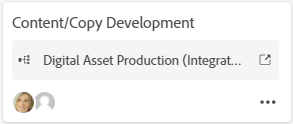
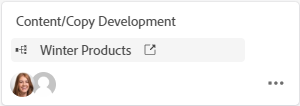
Status on cards

diff --git a/help/quicksilver/agile/get-started-with-boards/add-card-to-board.md b/help/quicksilver/agile/get-started-with-boards/add-card-to-board.md
@@ -9,11 +9,13 @@ exl-id: 9bc1f92a-85b0-44fd-b5de-09a69af6def5
 ---
 # Add an ad hoc card to a board
 
+{{highlighted-preview}}
+
 You can quickly add a card to a board and assign it to a member on the board. The card can represent a task, issue, person, group, or any type of item that you want to include on the board.
 
 >[!NOTE]
 >
->The ad hoc cards on a board are not connected to work items in Adobe Workfront. For details about connected cards, see [Connected cards on boards](/help/quicksilver/agile/get-started-with-boards/connected-cards.md).
+>The ad hoc cards on a board are not connected to work items in Adobe Workfront. For details about connected cards, see [Use connected cards on boards](/help/quicksilver/agile/get-started-with-boards/connected-cards.md).
 
 ## Access requirements
 
@@ -94,9 +96,21 @@ An ad hoc card is not connected to a work item in Adobe Workfront.
 
 1. Click **Close** to add the card to the board.
 
-   The assignees, tags, due date, checklist counter, and estimated hours are displayed on the card.
+   The assignees, tags, due date, checklist counter, estimated hours, <span class="preview">and status</span> are displayed on the card.
 
+   >[!NOTE]
+   >
+   >Showing the status on a card is available only via the early feature opt-in. For details, see [Early feature opt-in for Adobe Workfront Boards](/help/quicksilver/agile/get-started-with-boards/boards-early-feature-opt-in.md).
+
+   Sample image in the Production environment:
    ![Card added to board](assets/boards-sample-card-on-board-071822.png)
+
+   <div class="preview">
+
+   Sample image in the Preview environment:
+   ![Card added to board](assets/boards-sample-card-on-board-110922.png)
+
+   </div>
 
 ## Quick add an ad hoc card
 

diff --git a/help/quicksilver/agile/get-started-with-boards/connected-cards.md b/help/quicksilver/agile/get-started-with-boards/connected-cards.md
@@ -9,6 +9,8 @@ exl-id: c6d979dd-e4a4-48a5-a91b-b31d7ef848d1
 ---
 # Use connected cards on boards
 
+{{highlighted-preview}}
+
 You can add a card on your board that is connected to existing tasks and issues in Workfront.
 
 When any one of the following details is updated for the card in one location, it is automatically updated in the other location:
@@ -129,9 +131,21 @@ You must have the following access to perform the steps in this article:
    </table>
 
 1. Click **Close** to return to the board.
-   The connected object, assignees, tags, due date, checklist counter, and estimated hours are displayed on the card.
+   The connected object, assignees, tags, due date, checklist counter, estimated hours, <span class="preview">and status</span> are displayed on the card.
+
+   >[!NOTE]
+   >
+   >Showing the status on a card is available only via the early feature opt-in. For details, see [Early feature opt-in for Adobe Workfront Boards](/help/quicksilver/agile/get-started-with-boards/boards-early-feature-opt-in.md).
    
+   Sample image in the Production environment:
    ![Connected card on board showing details](assets/boards-connected-card-details-071822.png)
+
+   <div class="preview">
+
+   Sample image in the Preview environment:
+   ![Card added to board](assets/boards-connected-card-details-110922.png)
+
+   </div>
 
 ## Disconnect a connected card
 
